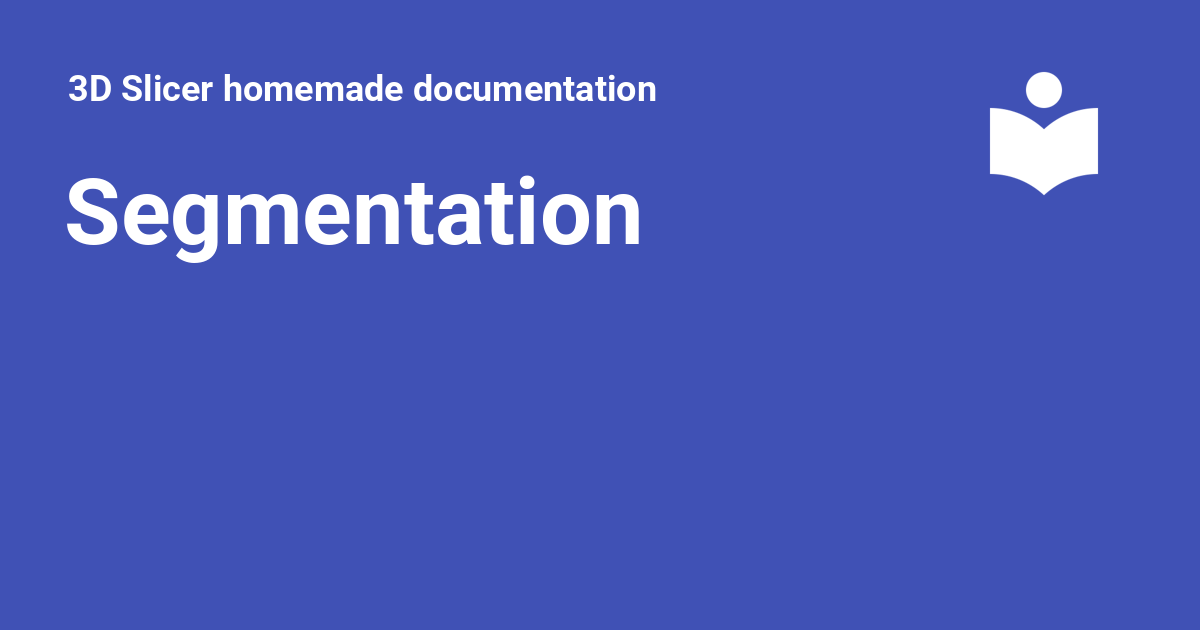
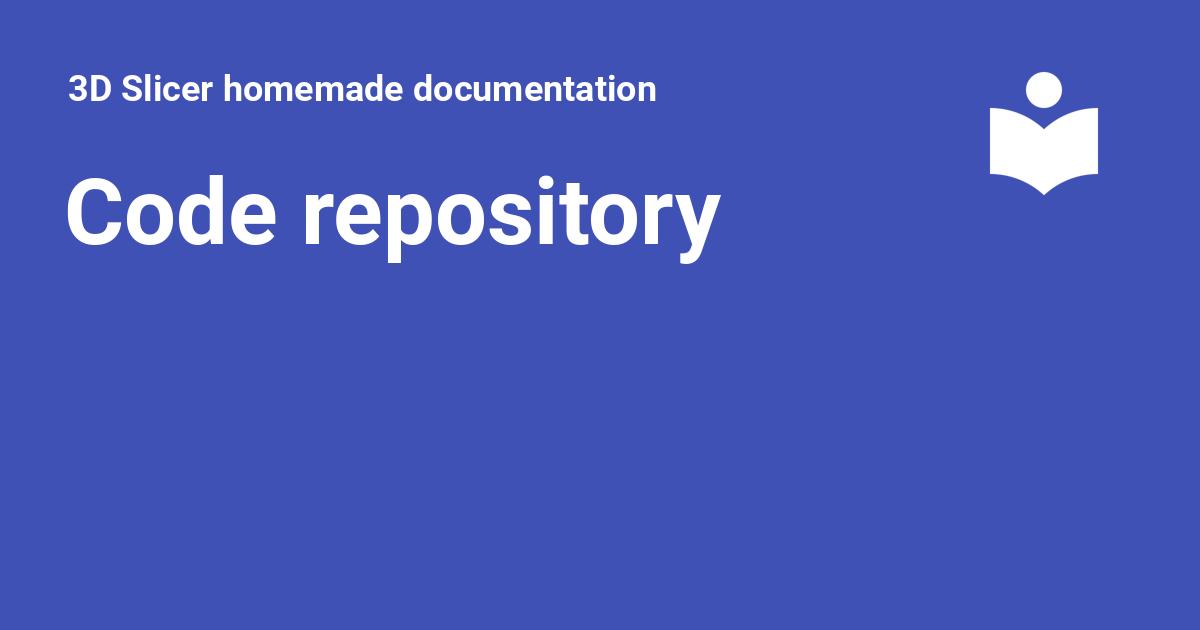
updated readme

Changed region(s): [[0.0308, 0.2714, 0.6167, 0.4222]]

diff --git a/mkdocs_Slicer/site/Code_repository/index.html b/mkdocs_Slicer/site/Code_repository/index.html
@@ -18,7 +18,7 @@
     
     
       
-        <title>Segmentation - 3D Slicer homemade documentation</title>
+        <title>Code repository - 3D Slicer homemade documentation</title>
       
     
     
@@ -53,7 +53,7 @@
       
         <meta  property="og:type"  content="website" >
       
-        <meta  property="og:title"  content="Segmentation - 3D Slicer homemade documentation" >
+        <meta  property="og:title"  content="Code repository - 3D Slicer homemade documentation" >
       
         <meta  property="og:description"  content="None" >
       
@@ -69,7 +69,7 @@
       
         <meta  name="twitter:card"  content="summary_large_image" >
       
-        <meta  name="twitter:title"  content="Segmentation - 3D Slicer homemade documentation" >
+        <meta  name="twitter:title"  content="Code repository - 3D Slicer homemade documentation" >
       
         <meta  name="twitter:description"  content="None" >
       
@@ -132,7 +132,7 @@
         <div class="md-header__topic" data-md-component="header-topic">
           <span class="md-ellipsis">
             
-              Segmentation
+              Code repository
             
           </span>
         </div>
@@ -288,7 +288,7 @@
           
   
   <span class="md-ellipsis">
-    Segmentation
+    Code repository
   </span>
   
 
@@ -299,7 +299,7 @@
         
   
   <span class="md-ellipsis">
-    Segmentation
+    Code repository
   </span>
   
 
@@ -351,6 +351,16 @@
                 
                   
 
+
+<!-- TOC -->
+<ul>
+<li><a href="#segmentation">Segmentation</a></li>
+<li><a href="#getting-specific-segments">Getting specific segments</a></li>
+<li><a href="#subject-hierarchy">Subject hierarchy</a></li>
+<li><a href="#save-volume-statistics">Save volume statistics</a></li>
+<li><a href="#keyboard-shortcuts-from-configuration-file">Keyboard shortcuts from configuration file</a></li>
+</ul>
+<!-- TOC -->
 
 <h1 id="segmentation">Segmentation</h1>
 <h2 id="getting-specific-segments">Getting specific segments</h2>

diff --git a/mkdocs_Slicer/site/404.html b/mkdocs_Slicer/site/404.html
@@ -246,7 +246,7 @@
         
   
   <span class="md-ellipsis">
-    Segmentation
+    Code repository
   </span>
   
 

diff --git a/mkdocs_Slicer/site/index.html b/mkdocs_Slicer/site/index.html
@@ -382,7 +382,7 @@
         
   
   <span class="md-ellipsis">
-    Segmentation
+    Code repository
   </span>
   
 
